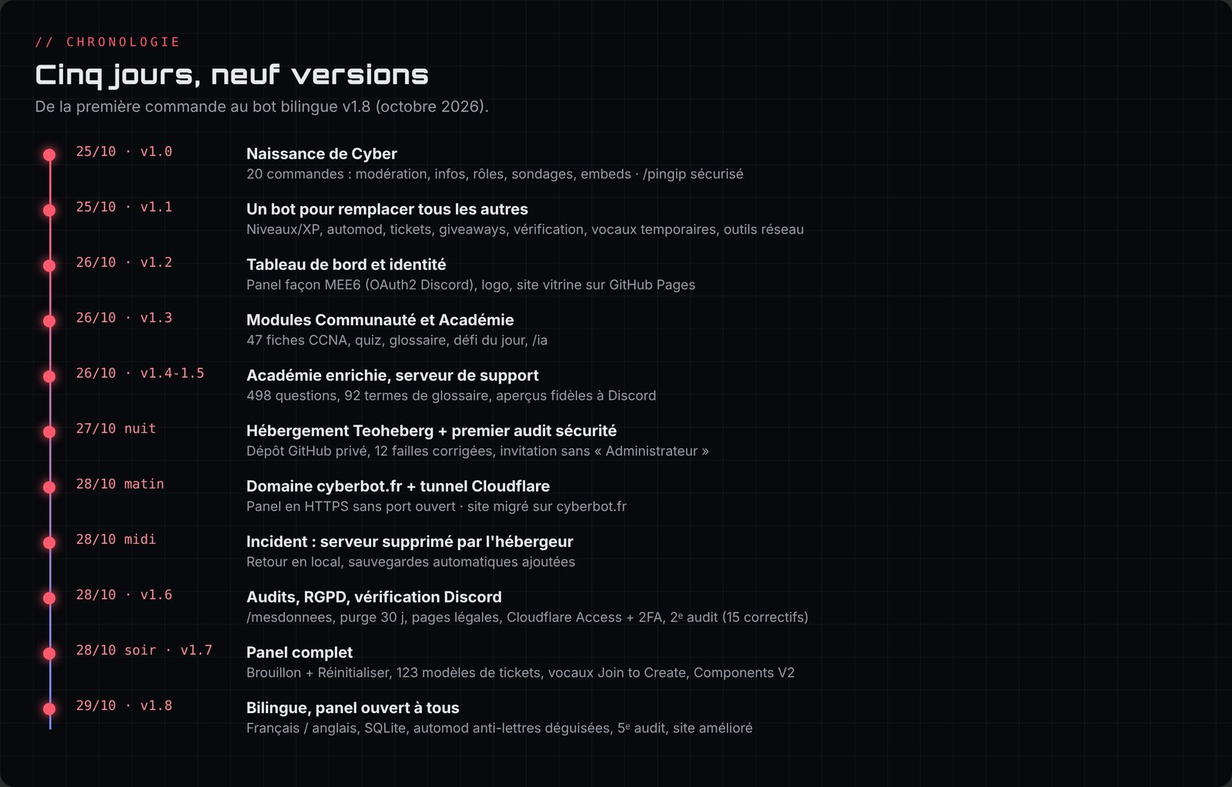
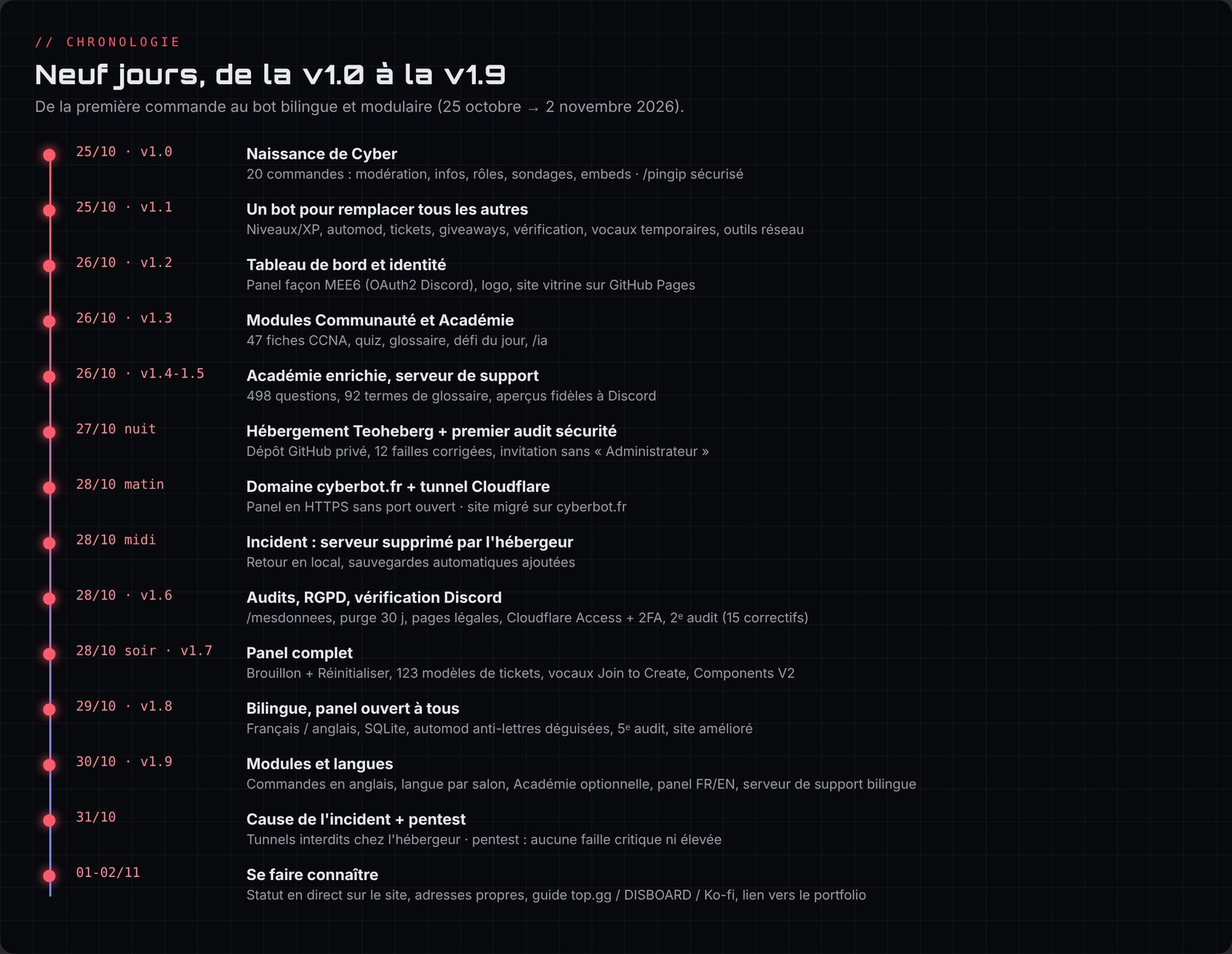
Docs : du 29 octobre au soir au 2 novembre
Carnet de bord (soirée du 29, fin du 30, 31 octobre, 1er et 2 novembre),
cause de la suppression du serveur (article 5.3 de l'hébergeur), pentest
(audit n°6), renforcements du panel, serveur de support bilingue et
visibilité (top.gg, DISBOARD, Ko-fi), Académie présentée comme module
optionnel, ajouts du panel v1.9.x, site (statut en direct, adresses
propres, portfolio), prix d'hébergement, achat du mini PC corrigé,
nouveaux problèmes et leçons, chronologie mise à jour.

Claude-Session: https://claude.ai/code/session_012YYMVp3wKNnKQfiRc4JGN7

diff --git a/docs/02-carnet-de-bord.md b/docs/02-carnet-de-bord.md
@@ -287,6 +287,16 @@ Tout commence dans une première conversation avec Claude, intitulée « Bot Dis
 
 🧠 La leçon du jour : quand plusieurs chantiers avancent en même temps, le plus important n'est pas d'aller vite, c'est l'**ordre** dans lequel on installe, avec une sauvegarde à chaque étape.
 
+### Soirée : renforcer, et un achat qui se complique
+
+**18 h 31** · 🛠 Ménage et dernière vérification du panel public : aucune faille, mais trois renforcements. Le cookie de connexion est verrouillé sur `panel.cyberbot.fr`, `http://` renvoie automatiquement vers `https://`, et la page d'attente accepte aussi `www.cyberbot.fr`. L'ancien panel de démonstration et des images inutiles sont retirés du site (PR #13). Tout le monde est déconnecté une fois, c'est normal.
+**22 h 40** · ⚠ *Problème humain* : le vendeur du mini PC choisi l'après-midi veut être payé par **PayPal « entre proches »**, hors de leboncoin. 💡 J'abandonne l'annonce : ce mode de paiement ne protège pas l'acheteur et c'est une technique d'arnaque classique. Nouveau classement, avec un message prêt à envoyer à un autre vendeur.
+**22 h 43** · ⚠ J'avais prévu de mettre dans le mini PC une barrette de **DDR5** que je possède déjà. 💡 Les EliteDesk G5 n'acceptent que la **DDR4** : la barrette ne rentre physiquement pas. Elle pourra être revendue pour financer une barrette DDR4.
+🧠 Avant d'acheter, vérifier la compatibilité de chaque pièce, et ne jamais sortir de la plateforme de paiement sécurisée.
+**22 h 52** · Dans Cloudflare, j'active **Always Use HTTPS** et **Bot Fight Mode**. « Tout est fait. »
+**23 h 00** · 🛠 Nouveau lien d'invitation permanent pour le serveur de support, remplacé partout : bot, bio, `/help`, site (PR #14).
+**Vers 23 h** · Sur le serveur de support, je supprime le rôle « Non vérifié » : tout le monde voit les salons, mais seuls les membres vérifiés peuvent écrire.
+
 ---
 
 ## Vendredi 30 octobre : la v1.9, plus claire pour tout le monde
@@ -306,17 +316,51 @@ Le lendemain matin, une deuxième vague :
 
 ⚠ *Problème* : en passant les noms de commandes en anglais, un texte qui citait plusieurs commandes sur la même ligne ne traduisait que la première. 💡 Corrigé et vérifié sur tous les textes du bot, du panel et du site.
 
+Et toute la journée, en parallèle :
+
+- 🛠 **Tickets** : plusieurs rôles du staff peuvent maintenant voir les tickets (jusqu'à 10).
+- 🛠 **Vérification à deux modes** : soit les salons sont **cachés** aux non-vérifiés, soit ils sont visibles en **lecture seule**. Le panel règle lui-même les permissions de `@everyone` et du rôle vérifié, sans jamais donner de droit dangereux.
+- 💡 Idée abandonnée : donner automatiquement un rôle « J'utilise Cyber » à ceux qui ont installé Cyber sur leur compte. ⚠ Discord ne fournit pas la liste des installations sur un compte, c'est donc impossible. Le code est retiré.
+- 🛠 **20 h 33** · Le serveur de support redevient **un seul serveur bilingue** : des rôles 🇫🇷 / 🇬🇧 seulement informatifs, des salons aux noms dans les deux langues, et les deux règlements dans le même salon. Le bouton du règlement donne le rôle vérifié et répond dans la langue du règlement cliqué.
+- 🛠 **Vers 23 h** · Option du panel « Répondre dans la langue de chaque membre » : Cyber regarde dans l'ordre le choix `/language` du membre, son rôle de langue, la langue de son Discord, puis celle du serveur ou du salon.
+
+## Samedi 31 octobre : la vraie cause de l'incident, et un pentest
+
+**12 h 09 → 12 h 16** · 🛠 Serveur de support : les ressources du « Guide du serveur » et un sujet en français et en anglais pour chacun des 33 salons, avec un bouton pour les copier.
+**14 h 53** · « Les partenaires, c'est quoi ? Il faut un bot de bump ? Comment faire pour que mon bot soit vu et choisi ? » 💡 Les partenariats attendront les premiers vrais utilisateurs. Pour les dons, **Ko-fi** peut donner un rôle 💎 Contributeur tout seul. **DISBOARD** suffit pour le bump, et la priorité est une page sur **top.gg**.
+**16 h 52** · ⚠ *Problème humain* : je retrouve un mail de Teoheberg du 28 octobre que **je n'avais pas vu**. Il expliquait la suppression du serveur : « non-respect du point 5.3 des conditions d'utilisation ». Je colle le texte de l'article. 💡 Le 5.3 interdit noir sur blanc les **tunnels Cloudflare** pour contourner les restrictions de ports, c'est-à-dire exactement le `cloudflared` que lançait mon bot. Une récidive fermerait le compte définitivement.
+🧠 Lire les conditions d'utilisation **avant** d'installer, et surveiller ses mails : la réponse à « pourquoi mon serveur a disparu » était dans ma boîte depuis trois jours.
+**17 h 12** · Je demande un **pentest complet** du bot, du panel et du site : « je veux un bot sans aucune faille ».
+**23 h 07** · ⚠ *Problème humain* : « jpp ». Le Guide du serveur de Discord refuse mes salons sans que je comprenne pourquoi. 💡 Discord regarde aussi les permissions du rôle `@everyone` lui-même, pas seulement celles des catégories. Une minute pour le régler, une fois la cause connue.
+**23 h 14** · ✅ **Pentest terminé : aucune faille critique ni élevée.** Quatre corrections installées (chapitre 8).
+
+## Dimanche 1er novembre : se faire connaître
+
+**17 h 45** · 🛠 Adresses propres sur le site : `cyberbot.fr/demarrer` au lieu de `cyberbot.fr/demarrer.html` (PR #18).
+**17 h 52** · J'essaie de créer le serveur Hetzner. ⚠ Les prix ont beaucoup monté, le modèle le moins cher est indisponible, et une erreur de lecture m'a fait croire qu'un serveur à 21,59 € en coûtait 7,79 €. 💡 Correction immédiate, et comparaison avec **IONOS** en vérifiant le prix **sans engagement** (les petits prix affichés sont pour 24 mois).
+🧠 Toujours lire le prix final TTC, la durée d'engagement et les frais d'installation.
+**18 h 01** · 🛠 Guide « Faire connaître Cyber » avec les textes prêts à copier pour top.gg, DISBOARD et Ko-fi. Le lien d'invitation du site ne demande pas la permission Administrateur, ce qui est exigé par top.gg. Dernière condition : le bot doit être **en ligne 24 h/24** avant d'être proposé.
+**18 h 18** · 🎨 Visuels 19 à 24 faits : bandeaux, carte de niveau, miniatures et émojis.
+**18 h 22** · 🛠 **Statut en direct sur le site** : le bot publie s'il est en ligne, son nombre de serveurs et de membres, et le site les affiche (PR #19).
+
+## Lundi 2 novembre : le portfolio
+
+**23 h 14** · 🛠 Le nom « Enzo Cerejo » en bas de chaque page du site renvoie maintenant vers mon portfolio **enzocerejo.fr** (PR #20).
+**23 h 26** · Je demande de remettre cette documentation à jour. 📘
+
+🧠 La leçon de ces jours-là : un projet qui grandit a autant besoin de communication (serveur de support, top.gg, portfolio) que de code.
+
 ---
 
 ## Bilan du carnet
 
 | Indicateur | Valeur |
 |---|---|
-| Durée | 6 jours, dont une journée de plus de 15 heures |
-| Versions | v1.0 → v1.9 |
+| Durée | 9 jours (25 octobre → 2 novembre), dont une journée de plus de 15 heures |
+| Versions | v1.0 → v1.9.2 |
 | Commandes | 20 → 61 |
 | Langues | Français et anglais |
-| Audits de sécurité | 5 (plus de 45 points corrigés) |
-| Pull requests sur le site | Plus de 10 |
-| Incidents majeurs | 1 (serveur supprimé par l'hébergeur) |
+| Audits de sécurité | 6, dont un pentest (plus de 50 points corrigés) |
+| Pull requests sur le site | 21 (dont celle-ci) |
+| Incidents majeurs | 1 (serveur supprimé par l'hébergeur, cause trouvée le 31 octobre : tunnels interdits par ses conditions) |
 | Données perdues | Celles du serveur hébergé (les sauvegardes automatiques existent depuis) |

diff --git a/docs/PORTFOLIO.md b/docs/PORTFOLIO.md
@@ -3,7 +3,7 @@
 ## Version courte (carte de projet)
 
 **Cyber, bot Discord tout-en-un et sécurisé**
-Bot Discord gratuit qui remplace plusieurs bots à la fois (modération, automod, tickets, niveaux, giveaways, vérification) et intègre une académie réseau niveau CCNA. Bilingue français / anglais. Panel web ouvert à tous avec connexion Discord, site sur un domaine personnel, hébergement derrière un tunnel Cloudflare protégé par une double authentification, cinq audits de sécurité et mise en conformité RGPD.
+Bot Discord gratuit qui remplace plusieurs bots à la fois (modération, automod, tickets, niveaux, giveaways, vérification) et propose en option une académie réseau niveau CCNA. Bilingue français / anglais. Panel web ouvert à tous avec connexion Discord, site sur un domaine personnel, hébergement derrière un tunnel Cloudflare protégé par une double authentification, six audits de sécurité dont un pentest et mise en conformité RGPD.
 *Node.js · discord.js · Express · SQLite · GitHub Pages · Cloudflare (DNS, Tunnel, Access) · Git*
 🌐 https://cyberbot.fr
 
@@ -13,7 +13,7 @@ Bot Discord gratuit qui remplace plusieurs bots à la fois (modération, automod
 
 Cyber est né d'un constat : un serveur Discord empile souvent cinq ou six bots différents. J'ai voulu un seul bot, gratuit et modulable, qui fasse tout, avec en plus un module pédagogique pour réviser les réseaux, en lien avec mon BTS CIEL.
 
-En cinq jours, le projet est passé de 20 à **61 commandes**, avec deux modules activables par serveur, deux langues (français et anglais), un panel d'administration ouvert à tous et un site public.
+En une semaine, le projet est passé de 20 à **61 commandes**, avec deux modules activables par serveur, deux langues (français et anglais), un panel d'administration ouvert à tous et un site public.
 
 ### Mon rôle
 
@@ -21,7 +21,7 @@ J'ai mené le projet comme chef de projet et administrateur système, avec l'IA 
 
 - définir les besoins, prioriser les versions, tester chaque livraison sur mes serveurs ;
 - configurer toute l'infrastructure : nom de domaine (OVH), DNS et sécurité (Cloudflare), GitHub (dépôts public et privé, Pages, ruleset, Dependabot), portail développeur Discord, hébergeur ;
-- piloter cinq audits de sécurité et décider quoi corriger ;
+- piloter six audits de sécurité dont un pentest et décider quoi corriger ;
 - documenter le projet (ce carnet de bord).
 
 ### Ce que j'ai mis en place
@@ -30,7 +30,7 @@ J'ai mené le projet comme chef de projet et administrateur système, avec l'IA 
 - **Sécurité** : secrets jamais publiés, principe du moindre privilège, panel d'abord protégé par cinq verrous (HTTPS, code par mail, application 2FA, OAuth2 Discord, permission vérifiée) puis ouvert au public après un audit dédié, automod qui démasque les lettres déguisées, vérification d'intégrité SHA-256, protections contre le XSS, le CSRF, le SSRF et la triche, sauvegardes automatiques.
 - **Conformité** : commande `/mesdonnees` (accès et effacement), suppression automatique des données, politique de confidentialité, conditions et mentions légales.
 - **Données** : passage des fichiers JSON à une base SQLite avec import automatique et repli de secours.
-- **Gestion d'incident** : suppression du serveur par l'hébergeur, retour en local, régénération de tous les secrets, sauvegardes mises en place.
+- **Gestion d'incident** : suppression du serveur par l'hébergeur, retour en local, régénération de tous les secrets, sauvegardes mises en place, puis recherche de la cause (tunnels interdits par ses conditions d'utilisation).
 
 ### Résultats
 
@@ -38,7 +38,7 @@ J'ai mené le projet comme chef de projet et administrateur système, avec l'IA 
 |---|---|
 | Commandes | 61, en français et en anglais |
 | Contenu pédagogique | 47 fiches, 498 questions de quiz |
-| Audits | 5, plus de 45 points corrigés |
+| Audits | 6 dont un pentest, plus de 50 points corrigés |
 | Secrets publiés | 0 |
 | Site | https://cyberbot.fr |
 

diff --git a/docs/11-problemes-et-lecons.md b/docs/11-problemes-et-lecons.md
@@ -14,6 +14,9 @@ Le carnet de bord (chapitre 2) raconte les problèmes dans l'ordre où ils sont 
 | Page anglaise sans tous les onglets | Menu de la version anglaise écrit à part | Menu aligné sur la version française | Une traduction se vérifie page par page |
 | Changements bloqués pendant des heures | PC éteint ou en veille, donc rien à installer | Paquets prêts et testés à l'avance, PR pour le site | Préparer pendant l'absence, installer en une fois au retour |
 | Dossier du site en retard sur GitHub | Des PR fusionnées en ligne pendant que le PC était éteint | `SYNCHRONISER-SITE.bat` (met de côté puis aligne sur GitHub) | Deux façons de publier = penser à se resynchroniser |
+| Serveur de l'hébergeur supprimé | L'article 5.3 de ses conditions interdit les tunnels Cloudflare (découvert le 31 octobre) | Rester sur mon PC, puis un serveur à moi | Lire les conditions d'utilisation avant d'installer |
+| Guide du serveur Discord refusait mes salons | `@everyone` avait encore le droit d'écrire au niveau du rôle lui-même | Retirer « Envoyer des messages » sur le rôle `@everyone` | Les permissions Discord se cumulent : rôle, catégorie, salon |
+| Rôle « J'utilise Cyber » impossible | Discord ne liste pas les installations d'une app sur un compte | Idée abandonnée, code retiré | Vérifier ce que l'API permet avant de coder |
 | Chaque commande répondait deux fois | Plusieurs copies du bot tournaient (PC + hébergeur, ou anciennes fenêtres) | Instance unique par port local, fermeture des anciennes copies au démarrage | Un service doit savoir qu'il est seul |
 | Panel injoignable chez l'hébergeur | Nom passant par Cloudflare, puis **aucun port entrant** sur la machine | Tunnel Cloudflare sortant | Une connexion sortante passe là où l'entrante est bloquée |
 | Mélange HTTPS / HTTP | Site en HTTPS, panel en HTTP | Domaine + tunnel = panel en HTTPS | Le navigateur bloque le « contenu mixte » |
@@ -41,6 +44,11 @@ Ce projet a aussi été une découverte : je ne code pas, et j'ai dû apprendre 
 | Un fil pour chaque chose | La demande « bot bilingue » a hésité entre deux fils | Une règle de routage écrite et appliquée sans exception |
 | Peur de la facture | « Je ne veux pas dépenser mes tokens » pour une IA dans l'automod | Toujours demander le coût réel et commencer par la solution gratuite |
 | Copier un jeu connu | Je voulais le jeu du dino de Google aux couleurs de Cyber | On ne copie pas une création protégée : un jeu original fait aussi bien l'affaire |
+| Mail important non lu | Le mail qui expliquait la suppression du serveur était dans ma boîte depuis trois jours | Surveiller ses mails et ses notifications, surtout après un incident |
+| Paiement hors plateforme | Un vendeur voulait PayPal « entre proches » | Toujours payer avec la transaction sécurisée du site, sinon renoncer |
+| Pièce incompatible | Je comptais mettre de la DDR5 dans un PC qui n'accepte que la DDR4 | Vérifier la compatibilité de chaque pièce avant d'acheter |
+| Prix mal lus | Prix hors taxe, engagement de 24 mois, frais d'installation, erreur de ligne | Comparer le prix final TTC sans engagement |
+| Frustration (« jpp ») | Des réglages Discord qui refusaient de marcher | Faire une pause et décrire précisément le blocage : la cause était simple |
 | Vocabulaire nouveau | Token du bot ou jeton GitHub ? PR, merge, branche, ruleset, CNAME, TOTP… | Demander sans gêne « c'est quoi ? » : chaque réponse m'a fait progresser |
 | Où mettre les secrets | J'ai demandé où mettre le token sur GitHub | Un secret ne va **jamais** dans un dépôt, même privé |
 | Trop de validations | Me demander « ok » à chaque étape ralentissait tout | Fixer une règle claire : réversible = on fait, irréversible = on me demande |

diff --git a/docs/07-hebergement-et-tunnel.md b/docs/07-hebergement-et-tunnel.md
@@ -92,7 +92,7 @@ Comparaison faite pour un hébergement à la maison :
 | Virtualisation | Très limitée | Proxmox, plusieurs VM (pfSense, Windows Server, labos) |
 | Compatibilité Docker | La plupart des images | Toutes |
 
-Conclusion retenue : un **mini PC reconditionné** (HP EliteDesk 800 G4/G5 Mini, Lenovo ThinkCentre M720q/M920q, Dell OptiPlex 7070 Micro) avec Proxmox ou Debian, Docker et le tunnel Cloudflare déjà prêt. Il servira aussi de laboratoire pour le BTS CIEL et le CCNA. Choix final (29 octobre) : un **HP EliteDesk 800 G5 Mini** d'occasion (i5-9500 6 cœurs, **16 Go** de RAM, SSD 500 Go, Wi-Fi) à **220 €**, préféré à un modèle à 200 € qui n'avait que 12 Go. Mon père l'achète le samedi 31 octobre avec la transaction sécurisée de leboncoin. Prévu ensuite : **Proxmox**, une VM Debian avec Docker pour le bot, le panel et le tunnel, puis des VM de labo (pfSense, Windows Server, Linux) allumées seulement pour réviser.
+Conclusion retenue : un **mini PC reconditionné** (HP EliteDesk 800 G4/G5 Mini, Lenovo ThinkCentre M720q/M920q, Dell OptiPlex 7070 Micro) avec Proxmox ou Debian, Docker et le tunnel Cloudflare déjà prêt. Il servira aussi de laboratoire pour le BTS CIEL et le CCNA. Le 29 octobre, un **HP EliteDesk 800 G5 Mini** d'occasion (i5-9500 6 cœurs, 16 Go de RAM, SSD 500 Go, Wi-Fi) à 220 € est d'abord choisi. Le soir même, le vendeur demande un paiement PayPal hors de leboncoin : l'annonce est abandonnée, et le choix se reporte sur un autre G5 Mini (i5-9600, 12 Go, 512 Go, 200 €), à acheter uniquement avec la transaction sécurisée de leboncoin. Une barrette DDR5 que je possédais ne pouvait pas servir : ces PC n'acceptent que la DDR4. Prévu ensuite : **Proxmox**, une VM Debian avec Docker pour le bot, le panel et le tunnel, puis des VM de labo (pfSense, Windows Server, Linux) allumées seulement pour réviser.
 
 ## Et en attendant ?
 
@@ -106,3 +106,17 @@ Le 29 octobre, j'ai aussi étudié un hébergement payant pour que le panel rest
 | Hébergeurs « gratuits spécial bots » | « Gratuit » | Écartés : c'est le genre qui a supprimé mon serveur |
 
 Décision : rester sur le PC pour l'instant (le panel est disponible quand il est allumé) et décider dans quelques jours. Le tunnel ne changera pas : il suffira de le lancer depuis la nouvelle machine.
+
+**Mise à jour du 1er novembre** : au moment de créer le serveur, les prix réels de Hetzner (TTC, adresse IPv4 comprise) étaient bien plus hauts. Le modèle CX23 était indisponible, le CPX02 (1 Go) coûtait 7,79 € par mois, et le CPX11 21,59 €. La piste **IONOS** (VPS M, 4 Go) a été ajoutée, à condition de vérifier le prix sans engagement : les 2 à 3 € affichés correspondent à un engagement de 24 mois. Le choix est en cours.
+
+## Pourquoi Teoheberg a supprimé le serveur
+
+Le 31 octobre, j'ai retrouvé le mail de l'hébergeur que je n'avais pas vu. Le serveur avait été supprimé pour non-respect de l'**article 5.3** de ses conditions, qui s'applique aux offres Eco et Standard. Il interdit notamment :
+
+- les **tunnels** (dont « Cloudflare Argo Tunnel » et Ngrok) utilisés pour contourner les restrictions de ports ;
+- les serveurs proxy (VLESS, VMESS, Trojan…) ;
+- les programmes renommés pour cacher leur rôle ;
+- l'envoi automatique de configurations vers des services tiers ;
+- les agents de surveillance extérieurs.
+
+Le `cloudflared` lancé par Cyber était donc exactement ce qui était interdit. Une récidive fermerait le compte. Pour revenir chez Teoheberg, il faudrait un serveur **sans tunnel** (pas de `TUNNEL_TOKEN`), et donc renoncer à `panel.cyberbot.fr`, ou prendre la gamme Standard avec un port, en HTTP. C'est pourquoi un serveur à moi (VPS ou homelab) reste la bonne solution.

diff --git a/docs/10-identite-et-communaute.md b/docs/10-identite-et-communaute.md
@@ -30,7 +30,7 @@ Les générateurs gratuits sortent des images en 1024 ou 1536 px : chaque image 
 
 ![Bannière de profil](images/banniere.jpg)
 
-Quelques bandeaux d'embed déjà produits (1200 × 400) :
+Au 1er novembre, les prompts 2 à 24 sont faits : avatar, bannières, image de partage, bandeaux 8 à 21, carte de niveau, miniatures et émojis. Quelques bandeaux d'embed (1200 × 400) :
 
 ![Bandeau Bienvenue](images/bandeau-08-bienvenue.jpg)
 ![Bandeau Modération](images/bandeau-10-moderation.jpg)
@@ -40,7 +40,7 @@ Quelques bandeaux d'embed déjà produits (1200 × 400) :
 ## Le profil du bot sur Discord
 
 - **Avatar et bannière** chargés dans le portail développeur (la bannière a été refaite en version opaque, avec le texte centré, pour bien s'afficher en petite vue).
-- **Statut permanent** : « 🌐 cyberbot.fr · /aide ».
+- **Statut permanent** : « 🌐 cyberbot.fr · /help » (depuis que les commandes s'appellent en anglais).
 - **Bio automatique** avec le nombre de serveurs, de membres et de commandes, mise à jour par le bot lui-même.
 - Liens vers les conditions d'utilisation et la politique de confidentialité.
 - Application transférée dans une **équipe Discord**.
@@ -57,3 +57,24 @@ Un modèle complet a été conçu pour le serveur officiel, dans le style « emo
 - pas de catégorie « Sanction » : `/mute` utilise déjà le timeout natif de Discord.
 
 Le 29 octobre, le serveur devient **bilingue**. Un nouveau venu arrive avec le rôle « Non vérifié » et ne voit qu'un salon `langue-language`. Il choisit 🇫🇷 ou 🇬🇧, lit le règlement de sa langue, l'accepte et reçoit « Membre » ou « Member ». Il voit alors les salons de sa langue et les salons communs. Le règlement anglais se publie avec un script dédié, comme le français.
+
+**Le modèle final (30 et 31 octobre)**. Après plusieurs essais (deux serveurs séparés par langue, puis des salons cachés selon la langue), la formule retenue est **un seul serveur bilingue** :
+
+- les rôles 🇫🇷 Français et 🇬🇧 English sont seulement **informatifs** : chacun peut prendre les deux, et ils ne cachent aucun salon ;
+- les salons ont des noms dans les deux langues (`📢・annonces-news`, `🔍・entraide-help`…), seule la discussion est séparée (`🇫🇷・discussions` et `🇬🇧・general`) ;
+- chaque salon a un sujet en français et en anglais ;
+- mode **lecture seule** : `@everyone` voit tout mais ne peut pas écrire. Le bouton du règlement donne le rôle ✅ Vérifié, qui peut écrire là où la discussion est ouverte. Les deux règlements sont dans le même salon, et Cyber répond dans la langue de celui sur lequel on a cliqué.
+
+## Se faire connaître
+
+Le 31 octobre et le 1er novembre, j'ai préparé la visibilité de Cyber :
+
+| Levier | Rôle | Quand |
+|---|---|---|
+| **top.gg** | Annuaire de bots : page avec captures, votes, avis | Dès que le bot est en ligne 24 h/24 (examen de 1 à 2 semaines) |
+| **DISBOARD** | Remonte le serveur de support dans un annuaire (« bump ») | Tout de suite |
+| **Ko-fi** | Dons, avec le rôle 💎 Contributeur donné automatiquement | Quand il y aura des utilisateurs |
+| **Partenariats** | Échange de publicité entre serveurs | Plus tard, avec les serveurs qui utilisent Cyber |
+| **Statut en direct** | Le site affiche si le bot est en ligne et son nombre de serveurs | Fait le 1er novembre |
+
+Le lien d'invitation du site ne demande pas la permission Administrateur, ce que top.gg exige. Des textes prêts à copier (français et anglais) ont été écrits pour chaque plateforme. Le site renvoie aussi vers mon portfolio, **enzocerejo.fr**.

diff --git a/docs/08-securite-et-audits.md b/docs/08-securite-et-audits.md
@@ -1,6 +1,6 @@
 # Chapitre 8 · Sécurité et audits
 
-La sécurité a été traitée comme un fil rouge : cinq audits en quatre jours, chaque fois avec un rapport classé par priorité, une explication simple de chaque faille, puis les corrections testées.
+La sécurité a été traitée comme un fil rouge : six audits en une semaine, dont un pentest, chaque fois avec un rapport classé par priorité, une explication simple de chaque faille, puis les corrections testées.
 
 ![Bilan des audits](images/bilan-audits.jpg)
 
@@ -97,12 +97,28 @@ Dans la foulée :
 
 Test final avec un autre compte Discord : validé.
 
+Le soir même, une vérification complémentaire a ajouté trois renforcements : un cookie de connexion verrouillé sur `panel.cyberbot.fr` (préfixe `__Host-`, impossible à remplacer depuis un autre sous-domaine), la redirection automatique de `http://` vers `https://` derrière le tunnel, et dans Cloudflare **Always Use HTTPS** et **Bot Fight Mode**.
+
 ## L'automod contre les lettres déguisées (29 octobre)
 
 Ma question : « On pourrait intégrer un peu d'IA dans l'automod, qui peut être contourné avec deux ou trois changements de texte ? » Deux couches ont été proposées :
 
 1. **Gratuite** (installée) : avant de chercher les mots interdits, le texte est « aplati ». Les caractères invisibles sont retirés, les lettres stylisées (𝐜𝐨𝐧, ⓒⓞⓝ), les lettres russes ou grecques qui ressemblent aux nôtres et les lettres-drapeaux sont ramenées à des lettres normales, et les mots coupés par un symbole (« con-nard », « con🤡nard ») sont recollés. Testé sans faux positif sur des phrases normales comme « la mer de glace ».
 2. **IA** (Claude Haiku, environ 5 centimes pour 1 000 messages, avec une clé API séparée de mon abonnement) : elle comprendrait aussi les insultes reformulées. J'ai préféré **ne rien dépenser pour l'instant**. Le code est gardé de côté.
+
+## Audit n°6 · Pentest complet (31 octobre)
+
+Demande : « je veux un bot sans aucune faille ». Un test d'intrusion de mes propres services : revue du code du bot (permissions, entrées, données), tests en boîte noire du panel (CSRF, sessions, en-têtes, limites), revue du site public et de l'historique GitHub. Pour la disponibilité, seulement une revue du code et de la configuration : pas de test de charge, puisque Cloudflare et GitHub Pages ne m'appartiennent pas.
+
+**Résultat : aucune faille critique ni élevée.** 2 problèmes moyens et 3 faibles :
+
+| Problème | Gravité | Correction |
+|---|---|---|
+| Un admin pouvait autoriser `/ban` à un rôle qui n'a pas le droit de bannir, et Cyber bannissait quand même | Moyen | Cyber revérifie la permission réelle du membre avant chaque commande |
+| Un plantage arrêtait le bot jusqu'à la relance à la main | Moyen | Redémarrage automatique (jusqu'à 20 fois) |
+| `/snipe` gardait les messages supprimés sans limite de temps | Faible | Oubliés au bout d'une heure |
+| Requêtes cassées au panel → « erreur interne » | Faible | Réponses propres (400, 404, 413) |
+| Une ancienne adresse e-mail reste dans l'historique Git du site | Faible | Laissée en l'état (réécrire l'historique serait plus risqué) |
 
 ## Protections du compte et de l'infrastructure
 

diff --git a/docs/01-contexte.md b/docs/01-contexte.md
@@ -4,15 +4,15 @@
 
 **Cyber** est un bot Discord créé par **Enzo Cerejo**, étudiant en **BTS CIEL** (Cybersécurité, Informatique et réseaux, Électronique), option Informatique et Réseaux. Le projet est né d'un constat simple : sur un serveur Discord, on empile souvent cinq ou six bots différents (un pour les tickets, un pour la modération, un pour les niveaux, un pour les giveaways…). Chacun a ses permissions, son tableau de bord, ses pannes.
 
-L'idée : **un seul bot, gratuit, qui remplace tous les autres**, avec en plus un module pédagogique pour réviser les réseaux au niveau **CCNA**, ce qui colle à la formation d'Enzo.
+L'idée : **un seul bot, gratuit, qui remplace tous les autres**. En plus, un petit module optionnel, l'**Académie**, permet de réviser les réseaux au niveau **CCNA**. Il est né de la passion d'Enzo pour l'infrastructure réseau, en lien avec sa formation.
 
 ## Les objectifs fixés
 
 | Objectif | Ce que ça veut dire concrètement |
 |---|---|
 | Tout-en-un | Modération, automod, tickets, niveaux, giveaways, vérification, vocaux temporaires, rôles… |
-| Modulable | Chaque serveur active seulement ce dont il a besoin (modules **Communauté** et **Académie**) |
-| Pédagogique | Fiches de cours CCNA, quiz, glossaire, défi du jour, outils réseau |
+| Modulable | Chaque serveur active seulement ce dont il a besoin (base **Communauté + Sécurité**, et des modules à installer comme l'**Académie**) |
+| Pédagogique (en option) | Fiches de cours CCNA, quiz, glossaire, défi du jour, outils réseau, regroupés depuis le 30 octobre dans un module **Académie** optionnel, fait par passion |
 | Simple à configurer | Un **panel web** façon MEE6 avec connexion Discord |
 | Sûr | Aucun secret publié, permissions minimales, panel protégé, données personnelles maîtrisées |
 | Professionnel | Site public, nom de domaine, pages légales, identité visuelle, préparation à la vérification Discord |
@@ -21,7 +21,7 @@ L'idée : **un seul bot, gratuit, qui remplace tous les autres**, avec en plus u
 
 Enzo a résumé sa vision ainsi : un serveur demande un module sur mesure, Enzo le développe, puis donne au serveur un **identifiant unique**. L'administrateur le saisit dans son panel (« Ajouter un module ») et Cyber installe le module, comme les cartes que l'on insère dans **Baymax** dans *Les Nouveaux Héros*.
 
-Au moment de cette documentation, cette fonction est **annoncée « Bientôt »** dans le panel et dans la bio du bot : elle n'est pas encore codée. Les modules Communauté et Académie, eux, sont activables par serveur.
+Au moment de cette documentation, cette fonction est **annoncée « Bientôt »** dans le panel et dans la bio du bot : elle n'est pas encore codée. L'onglet « Modules publics » du panel, avec ses notes et sa recherche, est déjà prêt à les accueillir.
 
 ## Méthode de travail
 

diff --git a/docs/annexe-glossaire.md b/docs/annexe-glossaire.md
@@ -3,6 +3,7 @@
 | Terme | Explication simple |
 |---|---|
 | **API** | Porte d'entrée d'un service pour les programmes (ici, celle de Discord ou d'Anthropic) |
+| **Bump** | Remonter son serveur en tête d'un annuaire comme DISBOARD, à intervalle régulier |
 | **Branche / Pull request / Merge** | Copie de travail d'un dépôt Git / proposition de modification / acceptation de cette proposition |
 | **CNAME** | Enregistrement DNS qui dit « ce nom est un alias de cet autre nom » ; aussi le fichier qui donne son domaine à GitHub Pages |
 | **Cloudflare Access** | Contrôle d'accès devant un site : il faut prouver son identité (code par mail, application 2FA) avant de voir la page |
@@ -19,6 +20,7 @@
 | **Intent** | Type d'événements que le bot demande à recevoir de Discord (certains sont « privilégiés ») |
 | **Moindre privilège** | Ne donner que les droits strictement nécessaires |
 | **OAuth2** | Connexion « avec Discord » sans donner son mot de passe au site |
+| **Pentest** | Test d'intrusion : on attaque ses propres services, avec autorisation, pour trouver les failles avant les autres |
 | **Proxmox** | Système installé sur une machine pour y faire tourner plusieurs machines virtuelles isolées |
 | **Pterodactyl** | Panneau d'hébergement qui fait tourner chaque serveur dans un conteneur Docker |
 | **RGPD** | Règlement européen sur la protection des données personnelles |

diff --git a/docs/05-panel.md b/docs/05-panel.md
@@ -84,6 +84,13 @@ Jusque-là, Cloudflare Access ne laissait entrer que moi. Le 29 octobre, je veux
 - **Langue** : français, anglais, ou les deux avec la liste des salons en anglais.
 - **Règlement avancé façon Discohook** : plusieurs cartes, chacune avec sa couleur, et des blocs titre, texte, petit texte, séparateur ou image, avec l'aperçu en direct.
 
+Ajouts du 30 octobre (v1.9.1 et suivantes) :
+
+- **Panel en anglais** : bouton 🇬🇧 EN / 🇫🇷 FR en haut à droite.
+- **Vérification à deux modes** : salons **cachés** aux non-vérifiés, ou visibles en **lecture seule**. Le panel applique lui-même les bonnes permissions à `@everyone` et au rôle vérifié, sans jamais donner de droit dangereux.
+- **Tickets** : jusqu'à 10 rôles du staff peuvent voir les tickets.
+- **Répondre dans la langue de chaque membre** : choix personnel, puis rôle de langue, puis langue de Discord, puis langue du serveur ou du salon.
+
 ## Sécurité du panel
 
 Le panel n'a ni mot de passe ni base SQL : **aucune injection SQL n'est possible**. Les protections en place :

diff --git a/docs/06-site-et-domaine.md b/docs/06-site-et-domaine.md
@@ -56,6 +56,13 @@ Les polices (Orbitron, Inter) sont hébergées sur le site lui-même pour ne rie
 
 Le même jour, l'ancien panel de démonstration a laissé la place à un renvoi vers le vrai panel (chapitre 5).
 
+### Depuis, côté site (30 octobre → 2 novembre)
+
+- **Visite guidée animée** et section **Modules** sur l'accueil ; l'Académie y est présentée comme un module optionnel.
+- **Adresses propres** sans « .html » (`cyberbot.fr/demarrer`).
+- **Statut en direct** : le bot publie sur `panel.cyberbot.fr/statut` s'il est en ligne et son nombre de serveurs et de membres, et le site l'affiche avec un compteur de serveurs.
+- Nouveau lien permanent vers le serveur de support, et nom de l'auteur relié au portfolio **enzocerejo.fr**.
+
 ## Achat du nom de domaine (28 octobre)
 
 Les noms `cyber.com` ou `cyberbot.com` étant presque sûrement pris ou très chers, le choix s'est porté sur **cyberbot.fr** :

diff --git a/docs/README.md b/docs/README.md
@@ -28,12 +28,12 @@ Compte rendu complet, étape par étape, de la création de **Cyber**, un bot Di
 
 | | |
 |---|---|
-| Durée | 5 jours (25 → 29 octobre 2026) |
-| Versions | v1.0 → v1.9 |
+| Durée | 9 jours (25 octobre → 2 novembre 2026) |
+| Versions | v1.0 → v1.9.2 |
 | Commandes | 61, en 2 modules (Communauté, Académie), en français et en anglais |
 | Académie | 47 fiches CCNA, 498 questions, 92 termes de glossaire |
 | Tickets | 123 modèles prêts à l'emploi |
-| Sécurité | 5 audits, plus de 45 points corrigés, 0 secret publié |
+| Sécurité | 6 audits dont un pentest, plus de 50 points corrigés, 0 secret publié |
 
 ## À propos des images
 
